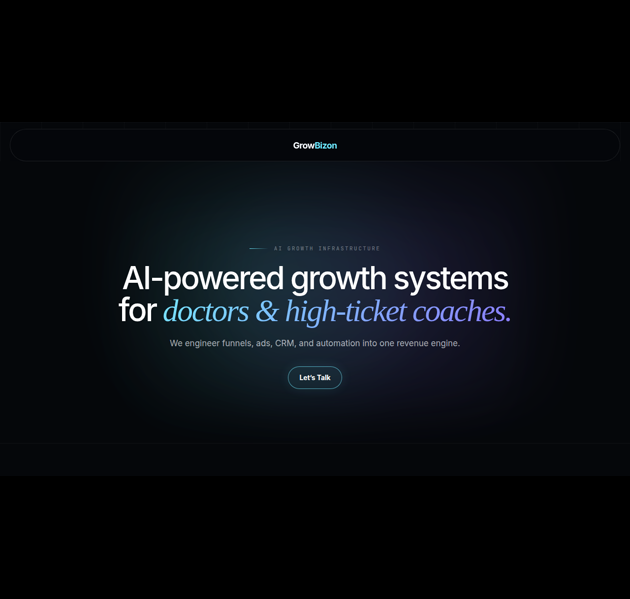
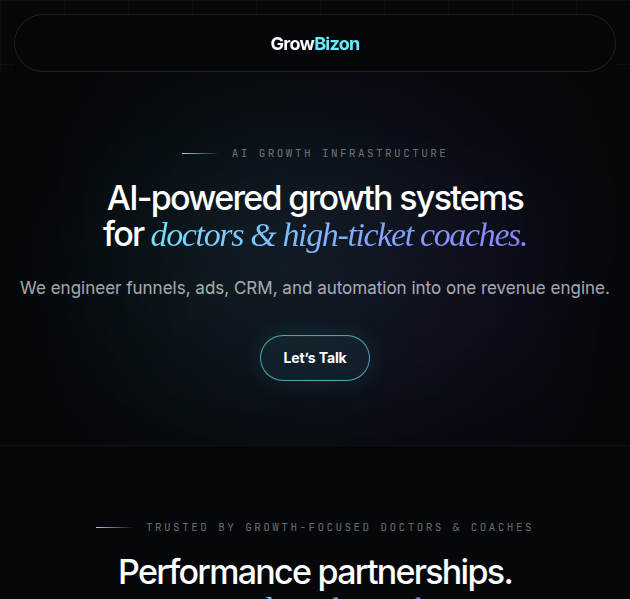
Match second project image box ratio

diff --git a/src/Components/Shared/ProjectCard/ProjectCard.jsx b/src/Components/Shared/ProjectCard/ProjectCard.jsx
@@ -31,8 +31,8 @@ const ProjectCard = ({
   return (
     <div
       className={`project__item ${index === 0 ? "project__item--template" : ""} ${
-        index !== 2 && "cus__mb60"
-      }`}
+        index === 3 ? "project__item--tall-template" : ""
+      } ${index !== 2 && "cus__mb60"}`}
       data-aos="fade-up"
       data-aos-duration="1000"
     >

diff --git a/src/Components/Shared/ProjectCard/projectCard.scss b/src/Components/Shared/ProjectCard/projectCard.scss
@@ -23,6 +23,12 @@
       }
     }
   }
+  &.project__item--tall-template {
+    .thumb {
+      aspect-ratio: 630 / 599;
+      border-radius: 10px;
+    }
+  }
   .content {
     .left__cont {
       span {
